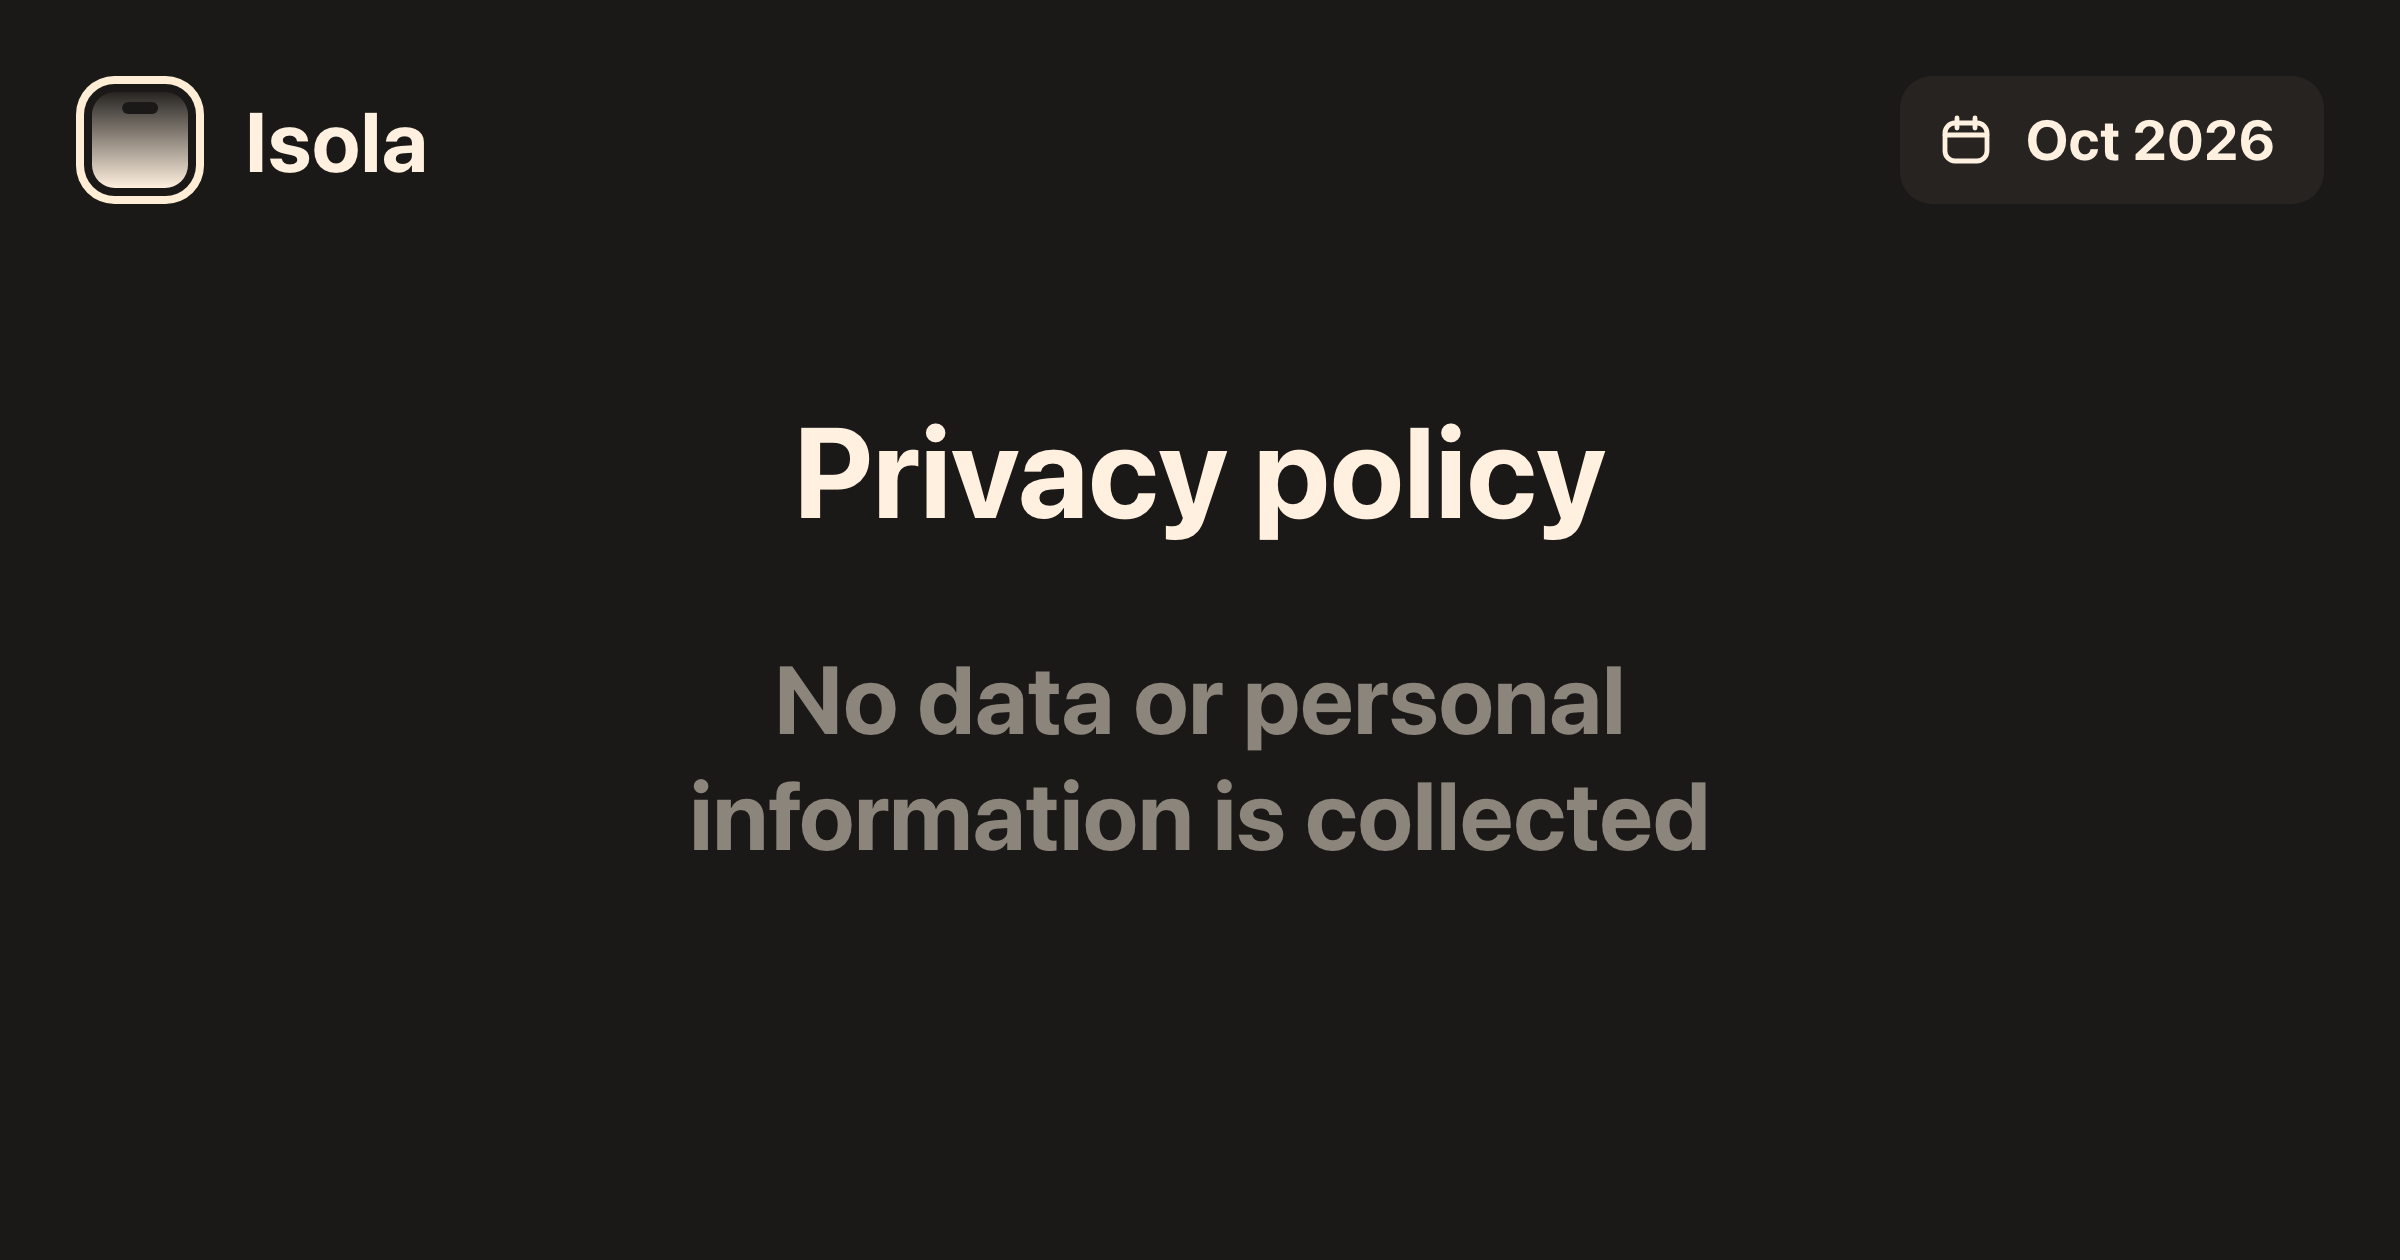
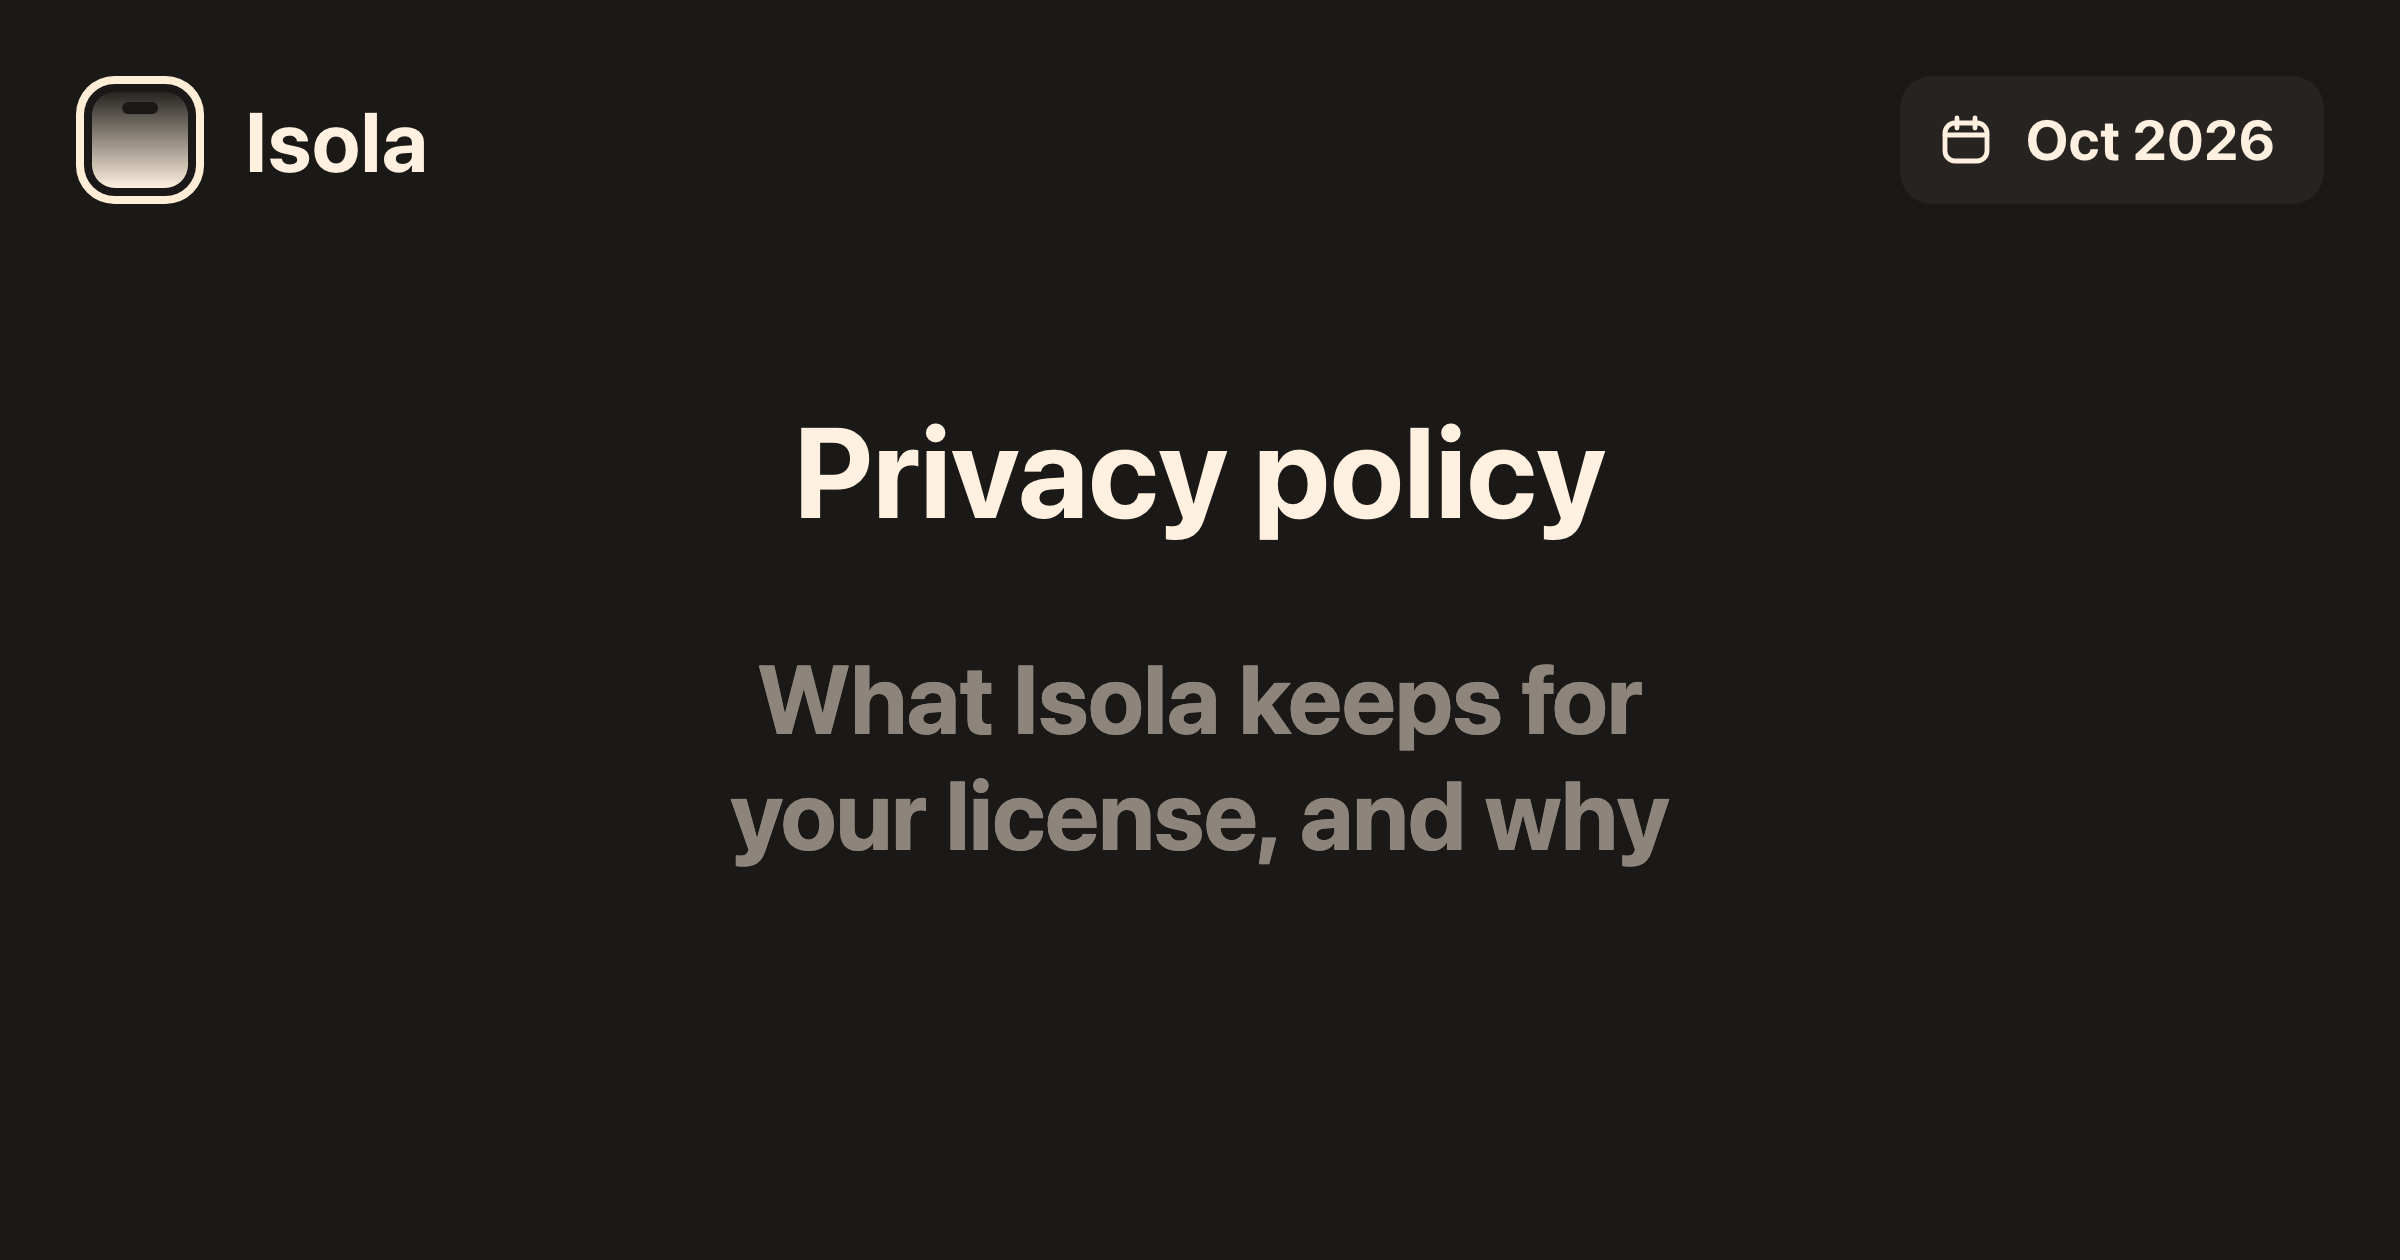
fix(site): say what is collected instead of claiming nothing is
The privacy page, the FAQ and the /privacy meta description (and its
link-preview image) claimed no data was collected while the licence server
keeps keys, optional e-mails and a hashed hardware id, name and model per
Mac. A short notice now says what is kept, why, where (Vercel hosting and
Blob, Resend once mail is on), for how long, and the reader's rights, with
the contact address. The FAQ also explains which Mac can remove which.

Changed region(s): [[0.2812, 0.619, 0.7188, 0.681], [0.3125, 0.5262, 0.6875, 0.5881]]

diff --git a/src/pages/Privacy.tsx b/src/pages/Privacy.tsx
@@ -1,3 +1,4 @@
+import type { ReactNode } from "react";
 import { AppMark } from "../components/AppMark";
 import { InlineLink } from "../components/InlineLink";
 import { BRAND, CONTACT_EMAIL } from "../config";
@@ -5,8 +6,22 @@ import { cn } from "../lib/cn";
 import { usePageTransition } from "../lib/router";
 import { Transition } from "../lib/transition";
 
+function Section({ title, children }: { title: string; children: ReactNode }) {
+  return (
+    <>
+      <h2 className="mb-3 text-2xl font-bold">{title}</h2>
+      <p className="mb-10 text-xl leading-normal">{children}</p>
+    </>
+  );
+}
+
 export default function Privacy() {
   const page = usePageTransition();
+  const contact = (
+    <InlineLink href={`mailto:${CONTACT_EMAIL}`} label="Contact us">
+      {CONTACT_EMAIL}
+    </InlineLink>
+  );
   return (
     <div className={cn("w-full max-w-(--breakpoint-md)", page)}>
       <Transition
@@ -25,7 +40,7 @@ export default function Privacy() {
       >
         <div className="opacity-0 delay-700">
           <p className="my-8 py-4 text-xl leading-normal">
-            No data or personal information is ever collected by{" "}
+            Only what your license needs is ever collected by{" "}
             <span className="relative ml-px inline-flex items-center">
               <span className="absolute left-0.5">
                 <AppMark />
@@ -33,6 +48,36 @@ export default function Privacy() {
               <span className="ml-8 font-medium">{BRAND}</span>.
             </span>
           </p>
+          <Section title="What we keep">
+            Your license key, and the e-mail address you give at checkout if you
+            give one. For each Mac you activate: a hashed hardware ID (never the
+            serial number), the Mac’s name and its model.
+          </Section>
+          <Section title="Why">
+            To hold each license to three Macs, to list them in Settings ›
+            License so you can free a slot, and to send your key again if you
+            lose it. Nothing else: no analytics, no ads, no tracking.
+          </Section>
+          <Section title="Where">
+            With Vercel, which hosts this site and keeps licenses in private
+            storage (Vercel Blob). Like any host, it sees your IP address with
+            each request, {BRAND}’s daily update check included; we don’t store
+            it. Once license e-mails are switched on, they go out through
+            Resend. The demo on this site plays its songs straight from Apple
+            Music, and in the app, weather and Spotify features talk to those
+            services directly. Everything else stays on your Mac, or in your own
+            iCloud Drive if you sync settings.
+          </Section>
+          <Section title="How long">
+            A Mac’s details stay until that Mac is deactivated. Your key and
+            e-mail address stay as long as the license exists, or until you ask
+            us to delete them.
+          </Section>
+          <Section title="Your rights">
+            You can ask for a copy of what we hold about you, a correction or
+            its deletion at any time, and complain to your data protection
+            authority if you think we got it wrong. Just write to {contact}.
+          </Section>
           <h2 className="mb-3 text-2xl font-bold">Have questions?</h2>
           <p className="text-xl">
             If you have questions or suggestions about this privacy policy, feel

diff --git a/src/pages/Faqs.tsx b/src/pages/Faqs.tsx
@@ -88,8 +88,9 @@ export default function Faqs() {
               name="remove"
             >
               <p>
-                Open the License tab in Settings and remove any Mac you no
-                longer use.
+                Open the License tab in Settings and deactivate any Mac you no
+                longer use. A Mac can remove itself or any Mac activated after
+                it, so your first Mac can always tidy up the list.
               </p>
               <p className={DIM}>
                 Need a complete reset instead? Just reach out.
@@ -164,12 +165,19 @@ export default function Faqs() {
               name="privacy"
               symbol={symbol(SHIELD_LOCK_PATH)}
             >
-              No. {BRAND} doesn’t collect any data or personal information — see
-              the{" "}
-              <InlineLink href="/privacy" label="Privacy policy">
-                privacy policy
-              </InlineLink>
-              .
+              <p>
+                Only what your license needs: the key, the e-mail address you
+                give at checkout if you give one, and for each activated Mac a
+                hashed hardware ID, its name and its model. Nothing else is
+                kept.
+              </p>
+              <p className={DIM}>
+                The{" "}
+                <InlineLink href="/privacy" label="Privacy policy">
+                  privacy policy
+                </InlineLink>{" "}
+                has the details.
+              </p>
             </AccordionItem>
           </Accordion>
           <div className="mt-12 pt-6">

diff --git a/src/routes.ts b/src/routes.ts
@@ -16,7 +16,7 @@ export const routes: RouteDef[] = [
     path: "/privacy",
     load: () => import("./pages/Privacy"),
     title: `${BRAND} — Privacy policy`,
-    description: "No data or personal information is collected",
+    description: `What ${BRAND} keeps for your license, and why`,
     dark: true,
   },
   { path: "/recover", load: () => import("./pages/Recover"), title: `${BRAND} — Recover your license`, description: "Recover your license" },

diff --git a/vite.config.ts b/vite.config.ts
@@ -24,7 +24,7 @@ const PAGES = [
   {
     file: "privacy",
     title: "Privacy policy",
-    description: "No data or personal information is collected",
+    description: `What ${BRAND} keeps for your license, and why`,
   },
   {
     file: "recover",
